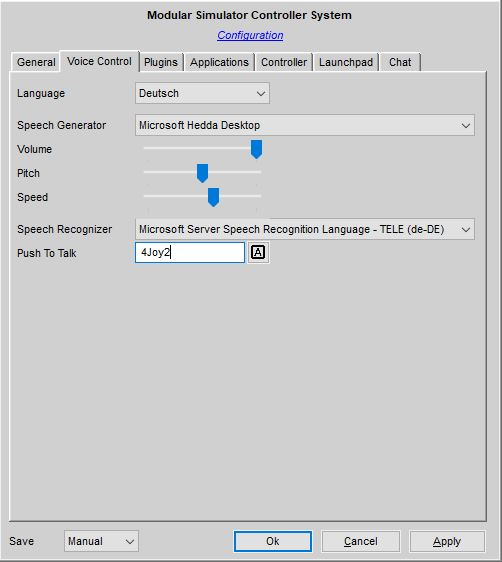
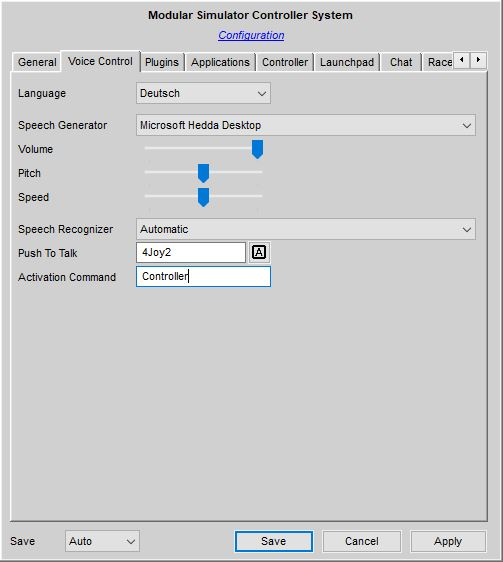
Documentation Update

diff --git a/Docs/Installation & Configuration.md b/Docs/Installation & Configuration.md
@@ -76,6 +76,7 @@ On this tab, you can configure the voice control support of Simulator Controller
 You can define the spoken language you want to use for voice generation and recognition with the first dropdown menu. Beside that, you can choose the concrete voice to be used for voice generation and also the voice recognizer language with the respectivly labeled dropdown menus. Be careful, a mismatch between chosen language and the selected voice and/or recognizer will give you very funny results. Generally, I recommend to use the "Automatic" setting for both and let Simulator Controller decide which is the best voice and the best recognizer for your current selected language. If more than one voice is available for voice generation, each time one is selected randomly, thereby providing some variety. For voice output you can set the volume, the pitch and the speed (rate) using the three corresponding sliders.
 
 With the last option, you can configure a *Push To Talk* function for voice recognition, which will greatly enhance the voice recognition quality and will avoid almost all false positives, if you are not in a very quite environment. The argument to be entered in the field is a key code as defined in the AutoHotkey [key list](https://www.autohotkey.com/docs/KeyList.htm). For example, "LControl" defines the left control key on the keyboard, whereas "4Joy2" defines the second button on your 4th connected hardware controller.
+Using *Activation Command* you can supply a keyword or a complete phrase to focus the voice recognition framework to the commands you defined as voice commands for [controller actions](https://github.com/SeriousOldMan/Simulator-Controller/wiki/Installation-&-Configuration#tab-controller). The recognition language for this activation command will always be the one chosen by the language dropdown menu above. For more information on how to use multiple voice *communications*, see the [corresponding documentation](*).
 
 Before you can use the voice capabilities of Simulator Controller, you must configure Windows for voice generation and recognition. Voice generation is normally preinstalled and preconfigured, but you can add additional voices using the Windows Settings dialog. The speech recognition runtime from Microsoft is not necessarily part of a Windows standard distribution. You can check this in your Settings dialog as well. If you do not have any voice recognition capabilities available, you can use the installer provided for your convenience in the *Utilities\3rd party* folder, as long you have a 64-bit Windows installation. Please install the runtime first and the two provided language packs for English and German afterwards. Alternatively you can download the necessary installation files from [this site at Microsoft](https://www.microsoft.com/en-us/download/details.aspx?id=16789).
 
@@ -216,7 +217,7 @@ With the settings on this tab, the dynamic behaviour of the [Virtual Race Engine
 
 ![](https://github.com/SeriousOldMan/Simulator-Controller/blob/main/Docs/Images/Configuration%20Tab%208.JPG)
 
-Choose the simulator with the topmost drop down menu, before you change one of the settings beneath. In the first group, you can choose how the [settings](https://github.com/SeriousOldMan/Simulator-Controller/wiki/Virtual-Race-Engineer#race-engineer-settings) for a new session and how the cold tyre pressures reference values will be initialized, whereas in the second group you define, wether the settings and the updated cold tyre pressures will be saved by the end of the session. If you choose to save the settings, selected information from your session (for the moment the best lap time and the average fuel consumption, more information will follow in the next releases) will be used to update the session settings maintained by the *Race Engineer Settings* tool, either at the default location in the *Simulator Controller\Config* folder in you user *Documents* folder or in the corresponding settings information in the setup database (depending on the origin of the settings as configured in the first group). If the settings had been loaded from the setup database at the start of the session, this settings file wil be updated, otherwise a new settings file named "New - YYYYMMDDHH24MISS" will be created in the setup database. The second part of the name of the new file represents a time stamp consisting of the current year, month, day, hour, minute and seconds.
+Choose the simulator with the topmost dropdown menu, before you change one of the settings beneath. In the first group, you can choose how the [settings](https://github.com/SeriousOldMan/Simulator-Controller/wiki/Virtual-Race-Engineer#race-engineer-settings) for a new session and how the cold tyre pressures reference values will be initialized, whereas in the second group you define, wether the settings and the updated cold tyre pressures will be saved by the end of the session. If you choose to save the settings, selected information from your session (for the moment the best lap time and the average fuel consumption, more information will follow in the next releases) will be used to update the session settings maintained by the *Race Engineer Settings* tool, either at the default location in the *Simulator Controller\Config* folder in you user *Documents* folder or in the corresponding settings information in the setup database (depending on the origin of the settings as configured in the first group). If the settings had been loaded from the setup database at the start of the session, this settings file wil be updated, otherwise a new settings file named "New - YYYYMMDDHH24MISS" will be created in the setup database. The second part of the name of the new file represents a time stamp consisting of the current year, month, day, hour, minute and seconds.
 
 The third group allows you to customize some parts of the statistical algorithms of Jona, the Virtual Race Engineer. The first field defines the number of laps, Jona uses to populate its data collection. During this period, most of the functions of Jona are not available, but the predictions of dynamic values, like cold tyre pressures, will be much more precise afterwards. The second field, *Statistical Window*, is also quite important. It defines the number of recent laps, which are used for each and every statistical calculation, for example the standard deviation of tyre pressures. The next field, *Damping Factor*, can be used to influence the calculation weight for each of those laps. If you want all laps to be considered with equal weight, set this to *0*, whereas a value o *0.2* will weigh each lap with *20%* less than the lap before. *Adjust Lap Time* will inform Jona to use the lap time from the *Race Engineer Settings* for special laps like the first one or the lap after a pitstop and the last field *Damage Analysis* defines the number of laps, Jona oberves your lap times after you collected some damage.
 
@@ -236,11 +237,11 @@ Some words about using the editor:
 After definition of a theme, you can choose it for the [startup sequence](https://github.com/SeriousOldMan/Simulator-Controller/wiki/Using-Simulator-Controller#other-settings) or even while the build tool is currently compiling your favorite plugin, if you are a developer.
 
 ## Translations Editor
-Another special editor is used for maintaining different language translations. In the translation process, you can provide a language specific translated text for each user interface element or other texts used by the Simulator Controller. English is the original language, on which the translation is based upon. A translation must be identified by its [ISO language code](https://en.wikipedia.org/wiki/List_of_ISO_639-1_codes), for example "EN", and also has a user understandable language identfier, for example "English". The translation information is stored by the *Translations Editor* in the folder identified by *kUserConfigDirectory* in a file named "Translations.LC", where LC is the given ISO language code.
+Another special editor is used for maintaining different language translations. In the translation process, you can provide a language specific translated text for each user interface element or other texts used by the Simulator Controller. English is the original language, on which the translation is based upon. A translation must be identified by its [ISO language code](https://en.wikipedia.org/wiki/List_of_ISO_639-1_codes), for example "EN", and also has a user understandable language identfier, for example "English". The translation information is stored by the *Translations Editor* in the *Simulator Controller\Translations* folder in your user *Documents* folder in a file named "Translations.LC", where LC is the given ISO language code.
 
 ![](https://github.com/SeriousOldMan/Simulator-Controller/blob/main/Docs/Images/Translations%20Editor.JPG)
 
-With the drop down menu at the top of the window you can choose any of the available languages and edit the defined translations, or you create a new language by pressing the '+' button next to the language drop down. You can delete a given language and all its translations, but be aware, that this cannot be undone. For your convenience, the small down array on the left side of the translation field will select the next text waiting for translation.
+With the dropdown menu at the top of the window you can choose any of the available languages and edit the defined translations, or you create a new language by pressing the '+' button next to the language drop down. You can delete a given language and all its translations, but be aware, that this cannot be undone. For your convenience, the small down array on the left side of the translation field will select the next text waiting for translation.
 
 Note: The original text sometimes has leading and/or trailing spaces. Be sure to include them in the translated text as well, since they are important for formatting.
 

diff --git a/Docs/Plugins & Modes.md b/Docs/Plugins & Modes.md
@@ -8,6 +8,7 @@ The distribution of Simulator Controller includes a set of predefined plugins, w
 | Motion Feedback | Fully configurable support for rig motion feedback using [SimFeedback](https://github.com/SeriousOldMan/Simulator-Controller#third-party-applications). The plugin supports two different methods to control SimFeedback. The first uses mouse automation, which is needed, if you don't have the commercial, so called expert license of *SimFeedback*. The second method programmatically connects to SimFeedback with the help of the [SFX-100-Streamdeck](https://github.com/ashupp/SFX-100-Streamdeck) extension. The mode "Motion", which is available for both methods, allows you to enable individal motion effects like "Roll" and "Pitch" and dial in their intensities. |
 | Pedal Calibration | Allows to choose between the different calibration curves of your high end pedals directly from the hardware controller. The current implementation supports the Heusinkveld *SmartControl* application, but adopting the plugin to a different pedal vendor is quite easy. |
 | Race Engineer | This plugin integrates Jona, the Virtual Race Engineer, with all other plugins for the simulation games, like the ACC plugin. The plugin handles the data transfer between the simulation game and the Virtual Race Engineer. |
+| Race Strategist | This plugin integrates Toni, the Virtual Race Strategist, with all other plugins for the simulation games, like the ACC plugin. The plugin handles the data transfer between the simulation game and the Virtual Race Strategist. |
 | ACC | Provides special support for starting and stopping *Assetto Corsa Competizione* from your hardware controller. The mode "Chat", which is available when *Assetto Corsa Competizione* is currently running, handle automated chat messages for the multiplayer ingame chat system, where the chat messages can be configured by the [configuration tool](https://github.com/SeriousOldMan/Simulator-Controller/wiki/Installation-&-Configuration#configuration). Additionally, beginning with Release 2.0, this plugin provides sophisticated support for the Pitstop MFD of *Assetto Corsa Competizione*. All settings may be tweaked using the controller hardware, but it is also possible to control the settings using voice control to keep your hands on the steering wheel. Since Release 2.1, Jona, the Virtual Race Engineer, is integrated with the ACC plugin as well. |
 | AC | One of the smallest plugin in this list only supplies a special splash screem, when *Assetto Corsa* is started. No special controller mode is defined for the moment. |
 | IRC | This plugin integrates the *iRacing* simulation game with Simulator Controller. A "Pitstop" mode is available to control the pitstop settings from your controller hardware and an integration with Jona, the Virtual Race Engineer, including full support for automated pitstop handling is also available. |
@@ -192,6 +193,7 @@ The "Race Engineer" plugin handles the interaction of the currently active simul
 
 	raceEngineer: *initialState* *onOffFunction*; raceEngineerName: *name*; raceEngineerLogo: true or false;
 	raceEngineerOpenSettings: *settingsFunction*; raceEngineerImportSettings: *importFunction*; raceEngineerOpenSetups: *settingsFunction*;
+	raceEngineerLanguage: DE | EN | ...;
 	raceEngineerSpeaker: false, true or *Microsoft Speech Generation Language*;
 	raceEngineerListener: false, true or *Microsoft Speech Recognition Language*
 	
@@ -200,7 +202,7 @@ Last, but not least, with *raceEngineerOpenSetups* you can open the [setup datab
 
 Note: If you disable Jona during an active race, the Race Engineer will stop working immediately. You can also enable Jona at the beginning of a race, but only until you cross the start/finish line for the first time. If you enable Jona after the initial lap, Jona will not be available until the next session. 
 
-With *true* supplied for *raceEngineerLogo*, Jona will show a nice rotating AI brain in the lower right corner of the screen, while the AI kernel is working, but you will get a short lag in your simulation, when this window pops up. With *raceEngineerSpeaker* and *raceEngineerListener* you can customize the natural language interface (or the personality) of Jona. If you simply supply *true* as arguments, a voice and the corresponding recognition engine will be choosen based on the currently configured language. If you prefer a specific voice and / or a specific language, you can supply the name for this voice and language instead (Example: "Microsoft David Desktop" is a male US-English voice and "Microsoft Server Speech Recognition - TELE (de-DE)" provide german spoken language recognition. The phrase grammars of Jona can be localized for any language, with English and German already supplied by the standard distribution of Simulator Controller, but you will also need the corresponding Windows libraries for TTS (text-to-speech) and STT (speech-to-text). For more information about Jona, see the corresponding [documentation](https://github.com/SeriousOldMan/Simulator-Controller/wiki/Virtual-Race-Engineer).
+With *true* supplied for *raceEngineerLogo*, Jona will show a nice rotating AI brain in the lower right corner of the screen, while the AI kernel is working, but you will get a short lag in your simulation, when this window pops up. With *raceEngineerSpeaker* and *raceEngineerListener* you can customize the natural language interface (or the personality) of Jona. If you simply supply *true* as arguments, a voice and the corresponding recognition engine will be choosen based on the currently configured language. If you prefer a specific voice and / or a specific language, you can supply the name for this voice and language instead (Example: "Microsoft David Desktop" is a male US-English voice and "Microsoft Server Speech Recognition - TELE (de-DE)" provide german spoken language recognition. The phrase grammars of Jona can be localized for any language, with English and German already supplied by the standard distribution of Simulator Controller, but you will also need the corresponding Windows libraries for TTS (text-to-speech) and STT (speech-to-text). For more information about Jona, see the corresponding [documentation](https://github.com/SeriousOldMan/Simulator-Controller/wiki/Virtual-Race-Engineer). With *raceEngineerLanguage* you can overwrite the default language, which has been configured in the [voice tab of the configuration tool](https://github.com/SeriousOldMan/Simulator-Controller/wiki/Installation-&-Configuration#tab-voice-control).
 
 It is possible, although not much fun, to use Jona without its natural language interface. Only the pitstop planning and setup capabilities are available in this cconfiguration, but it is still useful. You can use the following parameters to connect these actions to your controller hardware:
 
@@ -210,6 +212,18 @@ It is possible, although not much fun, to use Jona without its natural language 
 All these will be bound to the plugin itself, thereby are available all the time, and only unary functions are supported here. By using this actions, you will be able to use Jona with voice output, but no voice control, thereby getting most of the support from Jona, but you have to use an *oldschool* interface to control the engineer actions. To *answer* "Yes" to one of the questions of Jona, you must supply a controller function, for example a push button function, to the *Accept* parameter and for "No", you must use the *Reject* parameter.
 
 Note: The *raceEngineerCommands* actions are also available in most of the simulation plugins, which define a "Pitstop" mode.
+
+## Plugin *Race Strategist*
+
+The "Race Strategist" plugin handles the interaction of the currently active simulation as represented by the plugins "ACC", "RF2", "R3E", and so on, and Toni, the Virtual Race Strategist. If one of these simulation is started, the "Race Strategist" plugin will be automatically activated, and will start Toni in the background according to the configuration arguments described below. The following configuration parameters allow you to customize Toni to your preferences:
+
+	raceStrategistName: *name*; raceStrategistLogo: true or false; raceStrategistLanguage: DE | EN | ...;
+	raceStrategistSpeaker: false, true or *Microsoft Speech Generation Language*;
+	raceStrategistListener: false, true or *Microsoft Speech Recognition Language*
+	
+For Toni to be generally available, you must supply an argument for the *raceStrategistName* parameter. 
+
+With *true* supplied for *raceStrategistLogo*, Toni will show a nice rotating AI brain in the lower left corner of the screen, while the AI kernel is working, but you will get a short lag in your simulation, when this window pops up. With *raceStrategistSpeaker* and *raceStrategistListener* you can customize the natural language interface (or the personality) of Toni. If you simply supply *true* as arguments, a voice and the corresponding recognition engine will be choosen based on the currently configured language. If you prefer a specific voice and / or a specific language, you can supply the name for this voice and language instead (Example: "Microsoft David Desktop" is a male US-English voice and "Microsoft Server Speech Recognition - TELE (de-DE)" provide german spoken language recognition. The phrase grammars of Toni can be localized for any language, with English and German already supplied by the standard distribution of Simulator Controller, but you will also need the corresponding Windows libraries for TTS (text-to-speech) and STT (speech-to-text). For more information about Toni, see the corresponding [documentation](*). With *raceStrategistLanguage* you can overwrite the default language, which has been configured in the [voice tab of the configuration tool](https://github.com/SeriousOldMan/Simulator-Controller/wiki/Installation-&-Configuration#tab-voice-control).
 
 ## Plugin *ACC*
 

diff --git a/Docs/Virtual Race Engineer.md b/Docs/Virtual Race Engineer.md
@@ -127,7 +127,7 @@ Jona acquires telemetry data from the different simulation games using so called
 
 ## Interacting with Jona
 
-Although it is possible, to [use Jona without voice interaction](https://github.com/SeriousOldMan/Simulator-Controller/wiki/Plugins-&-Modes#plugin-race-engineer), it is not much fun. But to have fun with Jona, you must understand, how the interaction is structured, since in the end, Jona is stupid as bread and only reacts to strong standard patterns. For each language you want to use to interact with Jona, a so called grammar file must exist. As said, grammars for English and German are already there. The grammar files are named "Race Engineer.grammars.XX", where XX is the two letter ISO language code. These files reside in the *Config* directory, either in the installation folder of Simulator Controller or in the *Simulator Controller\Config* folder in your user *Documents* folder. The later means, that you are able to provide your own grammar files or *overwrite* the existing ones. But be careful with overwriting, since this will introduce a pain in the a..., when updating to new versions.
+Although it is possible, to [use Jona without voice interaction](https://github.com/SeriousOldMan/Simulator-Controller/wiki/Plugins-&-Modes#plugin-race-engineer), it is not much fun. But to have fun with Jona, you must understand, how the interaction is structured, since in the end, Jona is stupid as bread and only reacts to strong standard patterns. For each language you want to use to interact with Jona, a so called grammar file must exist. As said, grammars for English and German are already there. The grammar files are named "Race Engineer.grammars.XX", where XX is the two letter ISO language code. These files reside in a special folder directory, either in the *Resources\Grammars* folder of Simulator Controller or in the *Simulator Controller\Grammars* folder in your user *Documents* folder. The later means, that you are able to provide your own grammar files or *overwrite* the existing ones. But be careful with overwriting, since this will introduce a pain in the a..., when updating to new versions.
 
 Tha grammar files define the input patterns which Jona uses to understand you and also all reactions of Jona as predefined phrases. For each reaction, an unlimited number of phrases may exist (typically 2-4 different ones in the predefined grammar files) to provide for an entertaining variety of answers.
 
@@ -176,7 +176,7 @@ For the reactions of Jona, the format is much more simple. It looks like this:
 
 As you can see here, each phrase provides different alternative sentences. Variables may be used here as well.
 
-I strongly recommed to memorize the phrases in the language you use to interact with Jona. You will always find the current version of the grammar files in the *Config* folder of the Simulator Controller distribution. Or you can take a look at the files in the [Config directory on GitHub](https://github.com/SeriousOldMan/Simulator-Controller/tree/main/Config), for example the German version [Race Engineer.grammars.de](https://github.com/SeriousOldMan/Simulator-Controller/blob/main/Config/Race%20Engineer.grammars.de).
+I strongly recommed to memorize the phrases in the language you use to interact with Jona. You will always find the current version of the grammar files in the *Config* folder of the Simulator Controller distribution. Or you can take a look at the files in the [Resources\Grammars directory on GitHub](*), for example the German version [Race Engineer.grammars.de](*).
 
 ## Racing with Jona
 
@@ -417,7 +417,7 @@ A backword chaining rule is typically used for calculations and looks like this:
 	
 In this example, the rule *updateRemainingLaps* calculates the number of laps, which remains with the current amount of fuel. Or, as an alternative route, it might consider the remaining stint time of the current driver. The result is then updated in the memory as the *Lap.Remaining* fact, which might trigger other rules. One of these rules might then call *lowFuelWarning*, the second part of the example above. This rule calls the external function *lowFuelWarning*, which in the end let Jona call you and tell you, that you are running out of fuel. As you can see by the first instance of the rule *lowFuelWarning*, this call is only issued, when the current lap (*?lap*) is not a lap, where the driver has pitted.
 
-You can find the rules of Jona in the file *Race Engineer.rules* which resides in the *Config* folder in the installation folder of Simulator Controller. As always, you are able to overwrite this file by placing a (modified) copy in the *Simulator Controller\Config* folder in your user *Documents* folder. This might be or might not be a good idea, depending on your programming skills in logical languages.
+You can find the rules of Jona in the file *Race Engineer.rules* which resides in the *Resources\Rules* folder in the installation folder of Simulator Controller. As always, you are able to overwrite this file by placing a (modified) copy in the *Simulator Controller\Rules* folder in your user *Documents* folder. This might be or might not be a good idea, depending on your programming skills in logical languages.
 
 ### Interaction States
 

diff --git a/Docs/Updates.md b/Docs/Updates.md
@@ -43,6 +43,16 @@ Note: Some of you might want to have more control. No problem. All the files in 
 
 ***
 
+## Release 3.1.0
+
+Release 3.1 introduces a new assistant, Toni, the Virtual Race Strategist. The new assistant, although fully integrated already, does not do anything useful at the moment, so you can ignore it for the moment, but to integrate the new assistant in Simulator Controller, a lot of small changes were necessary:
+
+  - The voice handling framework now supports multiple different active communication partners. Each one must have an activation command to *focus* the voice recognition for this client (see the [new documentation for voice control](*) for more information). For the assistants Jona and Toni this is the call phrase "Hey %name%", where %name% is the configured name of the assistant. If you also use voice commands for some of the [controller actions](https://github.com/SeriousOldMan/Simulator-Controller/wiki/Installation-&-Configuration#tab-controller), you must set the activation command for the Simulator Controller itself in the [configuration tab for voice control](https://github.com/SeriousOldMan/Simulator-Controller/wiki/Installation-&-Configuration#tab-voice-control).
+  - A new plugin has been created for the control of the new Virtual Race Strategist. Please take a look at the documentation of the ["Race Strategist" plugin](*) for more information.
+  - [Mostly for Developers]: In the course of the integration of Toni, a lot of files were moved to new locations. This will be handled by the automated update procedure. Affected are Plugin Labels, Translations, Grammars and Rules. If you have created your own translations for example, you will find those files from now on in the *Simulator Controller\Translations* folder, which is located in your user *Documents* folder. Furthermore, the Rules files had been split apart to allow for a more modular approach.
+
+***
+
 ## Release 3.0.6
 
 The local configuration database will be covered as usual by the automatic update procedure. But you will take a look at the [configuration tool](https://github.com/SeriousOldMan/Simulator-Controller/wiki/Installation-&-Configuration#configuration), since a new configuration page has been added for the Virtual Race Engineer. A lot of [new configuration options](https://github.com/SeriousOldMan/Simulator-Controller/wiki/Installation-&-Configuration#tab-race-engineer) will allow you to control the dynamic behaviour of certain algorithms of the AI kernel and the integration of Jona with the setup database. The default values of all thesse new options has been chosen so, that the default behaviour should be the same as before.

diff --git a/README.md b/README.md
@@ -91,6 +91,7 @@ These plugins are part of the Simulator Controller distribution. Beside providin
 | Motion Feedback | Fully configurable support for rig motion feedback using [SimFeedback](https://github.com/SeriousOldMan/Simulator-Controller#third-party-applications). |
 | Pedal Calibration | Allows to choose between the different calibration curves of your high end pedals directly from the hardware controller. |
 | Race Engineer | This plugin integrates Jona, the Virtual Race Engineer, with all other plugins for the simulation games, like the ACC plugin. The plugin handles the data transfer between the simulation game and the Virtual Race Engineer. |
+| Race Strategist | This plugin integrates Toni, the Virtual Race Strategist, with all other plugins for the simulation games, like the ACC plugin. The plugin handles the data transfer between the simulation game and the Virtual Race Strategist. |
 | ACC | Special support for starting and stopping *Assetto Corsa Competizione* from your hardware controller and supplies functions and actions for configurable, automated chat messages in a multiplayer game. Additionally, beginning with Release 2.0, this plugin provides sophisticated support for the Pitstop MFD of *Assetto Corsa Competizione*. All settings may be tweaked using the controller hardware, but it is also possible to control the settings using voice control to keep your hands on the steering wheel. This plugin uses configuration based data, defines two simulator dependent modes and shows how to automate your simulation game. Due to its functional richness, this plugin provides a good showcase when starting your own development. Since Release 2.1 Jona, the Virtual Race Engineer, is available for *Assetto Corsa Competizione*. |
 | AC | Special support for starting and stopping *Assetto Corsa* from your hardware controller. |
 | IRC | This plugin integrates the *iRacing* simulation game with Simulator Controller. A "Pitstop" mode is available to control the pitstop settings from your controller hardware and an integration with Jona, the Virtual Race Engineer, including full support for automated pitstop handling is also available |

diff --git a/Docs/Functions Reference.md b/Docs/Functions Reference.md
@@ -132,7 +132,7 @@ Returns a map, where the key defines the [ISO language code](https://en.wikipedi
 Returns a translation map for the given [ISO language code](https://en.wikipedia.org/wiki/List_of_ISO_639-1_codes). Keys are the original texts in English with the translated texts as their values. Normally, it is much more convinient to use the *translate* function below.
 
 #### *writeTranslations(languageCode :: String, languageName :: String, translations :: Map)*
-Saves a translation map for the given [ISO language code](https://en.wikipedia.org/wiki/List_of_ISO_639-1_codes) and language name. The format of the *translations* map must be according to the description in *readTranslations*. The translation map is stored in the folder identified by *kUserConfigDirectory* in a file named "Translations.LC", where LC is the given ISO language code.
+Saves a translation map for the given [ISO language code](https://en.wikipedia.org/wiki/List_of_ISO_639-1_codes) and language name. The format of the *translations* map must be according to the description in *readTranslations*. The translation map is stored in the *Simulator Controller\Translations* folder in your user *Documents* folder in a file named "Translations.LC", where LC is the given ISO language code.
 
 #### *setLanguage(languageCode :: String)*
 The [ISO language code](https://en.wikipedia.org/wiki/List_of_ISO_639-1_codes) for the target language, for example "de" for German.

diff --git a/Docs/Releases.md b/Docs/Releases.md
@@ -2,10 +2,11 @@
 
   1. Bugfixes, as always
   2. Documentation updates, as always
-  3. Full rework of voice generation and recognition to allow for multiple voices even using different languages
-  4. Initial integration of the new AI-based Virtual Race Strategist
-  5. New Plugin "Race Strategist" to control the new Virtual Race Strategist
-  6. New Tab in the configuration tool for the new Virtual Race Strategist
+  3. Full rework of voice generation and recognition to allow for multiple voices even using different languages (see the [new documentation for voice control](*) for more information)
+  4. New plugin parameter *raceEngineerLanguage* for the ["Race Engineer" plugin](https://github.com/SeriousOldMan/Simulator-Controller/wiki/Plugins-&-Modes#plugin-race-engineer) to overwrite the default language for the Virtual Race Engineer (same applies for the new Virtual Race Strategist)
+  5. Initial integration of the new AI-based Virtual Race Strategist
+  6. [New Plugin "Race Strategist"](*) to control the new Virtual Race Strategist
+  7. [New Tab in the configuration tool](*) for the new Virtual Race Strategist
 
 ## 3.0.6-release 05/28/21
 

diff --git a/Docs/Overview.md b/Docs/Overview.md
@@ -20,7 +20,10 @@ Welcome to the Simulator Controller documentation. Here you will find everything
     Reference information for all the builtin plugins and modes.  
 	
   - [Virtual Race Engineer](https://github.com/SeriousOldMan/Simulator-Controller/wiki/Virtual-Race-Engineer)  
-    You don't want to miss out Jona, the world first full voice dialog capable Virtual Race Engineer based on artificial intelligence algorithms.
+    You don't want to miss out Jona, the world first full voice dialog capable Virtual Race Engineer based on artificial intelligence algorithms. 
+	
+  - [Virtual Race Strategist](*) 
+    The other assistant, Toni, takes care of all strategic aspects during races with one or more pit stops, even under changeable weather conditions.
 	
   - [Development Guide](https://github.com/SeriousOldMan/Simulator-Controller/wiki/Development-Overview-&-Concepts)  
     Complete set of information for developers, who want to create their own plugins or even contribute to the further development of Simulator Controller.

diff --git a/Docs/Virtual Race Strategist.md b/Docs/Virtual Race Strategist.md
@@ -1,0 +1,1 @@
+To be continued...
